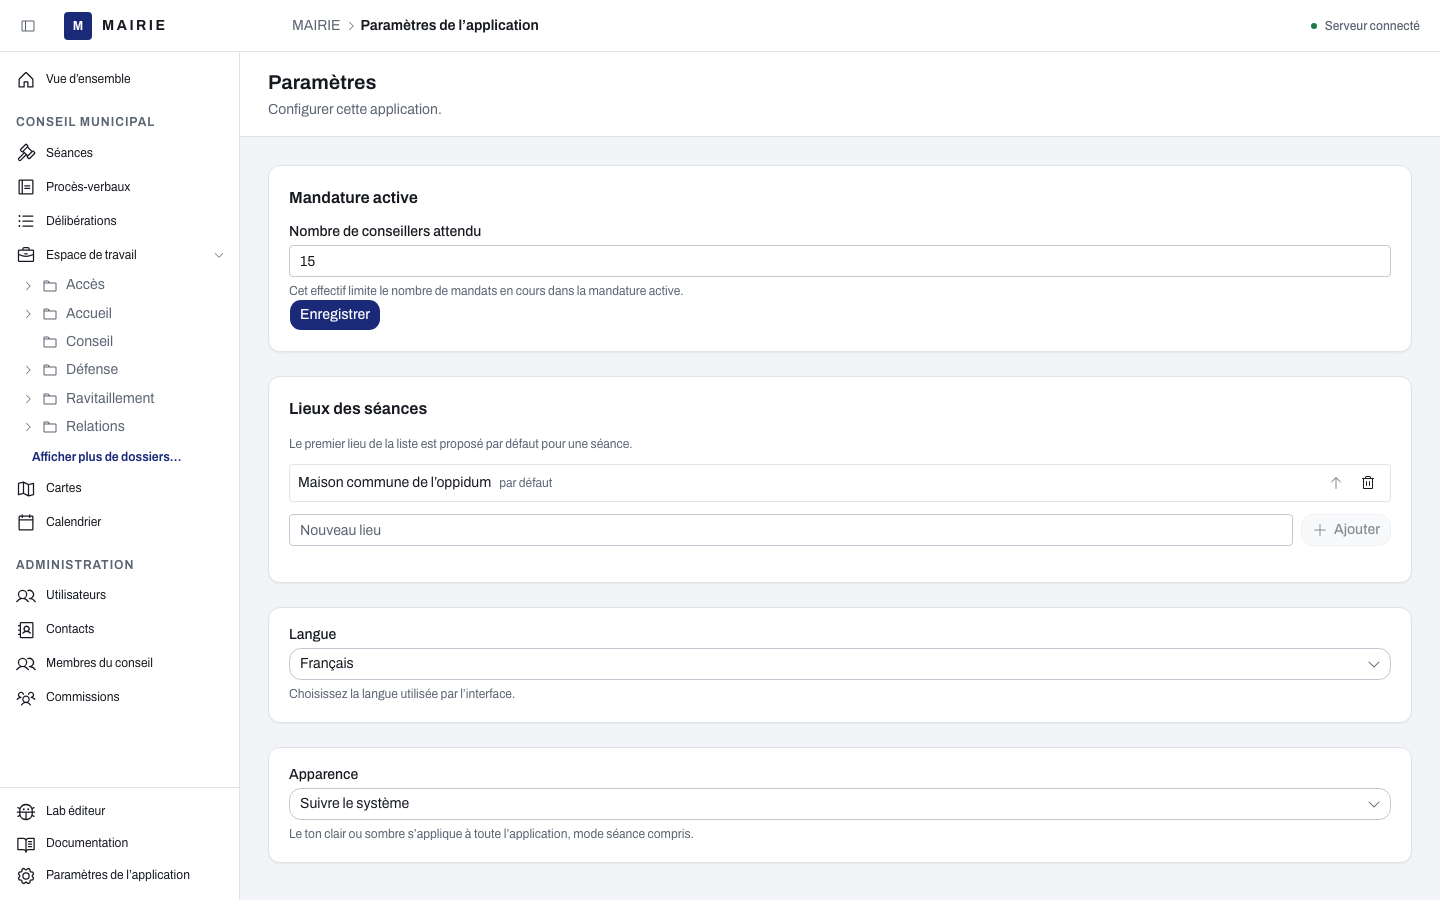
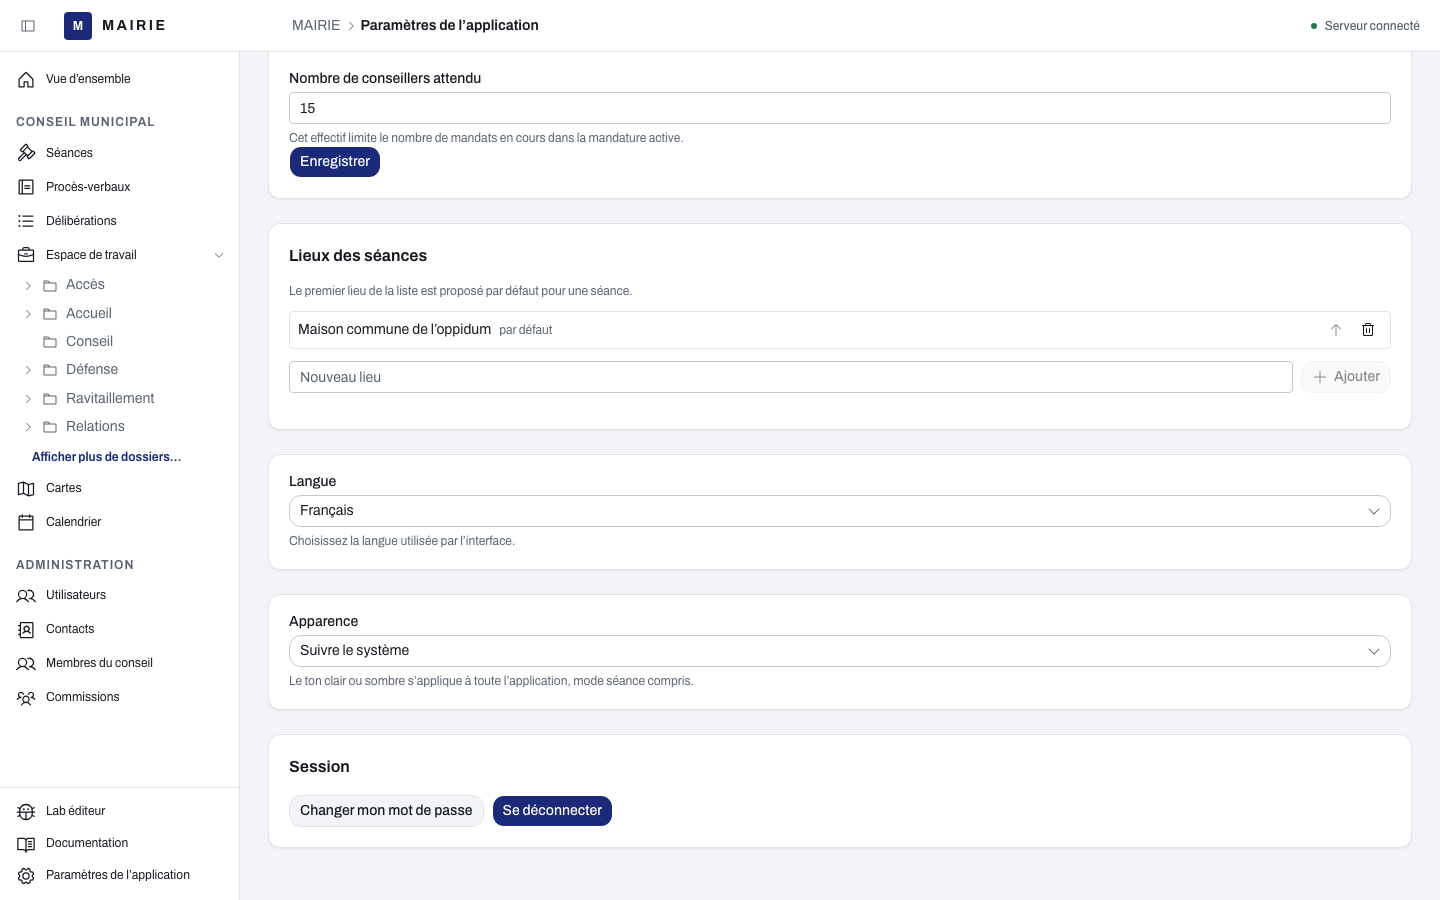
Show the session section and match two captions to their screens
The getting-started settings capture now shows the Session section of a
signed-in account, the quick search caption counts the results it shows,
and the workspace page says a document opens in place of the folder list.

diff --git a/packages/client/e2e/captures/prise-en-main.captures.ts b/packages/client/e2e/captures/prise-en-main.captures.ts
@@ -40,10 +40,25 @@ test("prise en main de Hall", async ({ docsPage: page }) => {
   await capture(page, `${journey}/04-recherche-rapide`);
   await page.keyboard.press("Escape");
 
+  // The development sign-in has no session to close: the session answer receives the actions of a signed-in account.
+  await page.route("**/api/auth/session", async (route) => {
+    const { "if-none-match": _cached, ...headers } = route.request().headers();
+    const response = await route.fetch({ headers });
+    const entity = (await response.json()) as { actions?: unknown[] };
+    entity.actions = [
+      ...(entity.actions ?? []),
+      { name: "session.logout", method: "POST", href: "/api/auth/logout", type: "application/json" },
+      { name: "session.change-password", method: "POST", href: "/api/auth/change-password", type: "application/json" },
+    ];
+    await route.fulfill({ response, body: JSON.stringify(entity) });
+  });
   await page.goto("/app/settings");
   await expect(page.getByRole("heading", { name: "Paramètres" })).toBeVisible();
+  await expect(page.getByTestId("settings-logout")).toBeVisible();
+  await page.getByTestId("settings-logout").scrollIntoViewIfNeeded();
   await page.waitForLoadState("networkidle");
   await capture(page, `${journey}/05-parametres`);
+  await page.unroute("**/api/auth/session");
 
   await page.setViewportSize({ width: 390, height: 844 });
   await page.goto("/app/");
